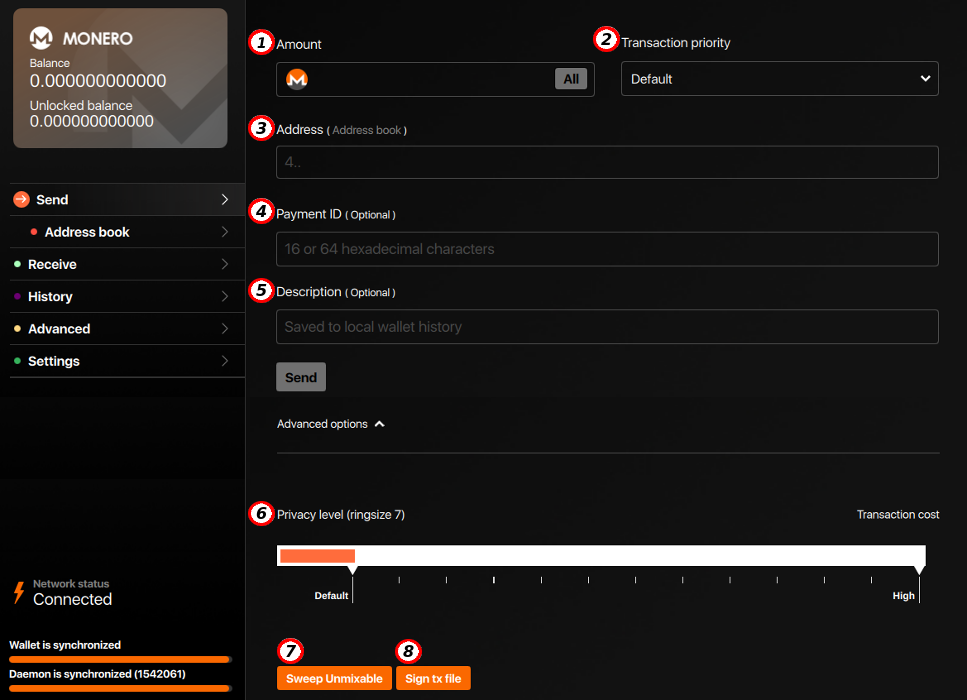
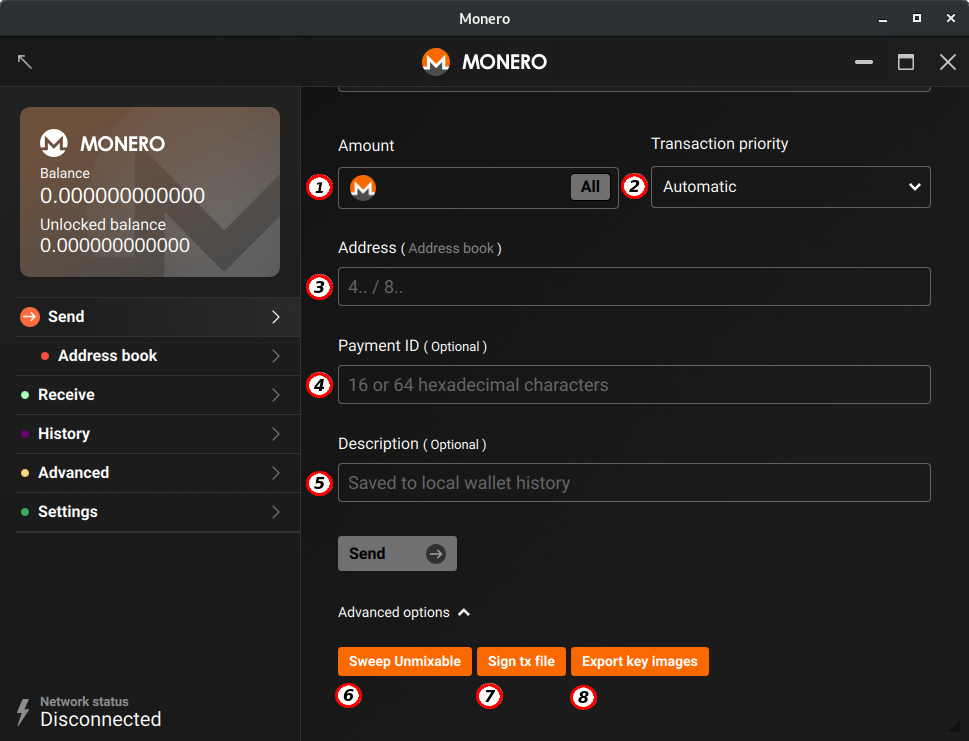
[ch03] remove 'privacy level', update screenshot, add 'export key image'

diff --git a/es/ch03.md b/es/ch03.md
@@ -10,12 +10,11 @@ La pestaña `Enviar` proporciona herramientas para crear transacciones de salida
 (3) **Dirección:** Aquí es donde se ingresa la dirección de Monero a la que se envían los moneroj. La mejor práctica es copiar y pegar la dirección para evitar errores, acompañada de una comprobación visual de que la dirección pegada es correcta.    
 (4) **ID de pago (opcional):** El ID de pago es un identificador adjunto a la transacción que estás a punto de enviar. A menudo, al enviar a un mercado de intercambio, te facilitarán una identificación de pago que tendrás que incluir aquí. Esta medida suele ser necesaria para que el receptor sepa que la transacción entrante es tuya.    
 *Si olvidas agregar tu ID de pago, aún podrás recuperar tus fondos comunicándote con la parte a la que enviaste Monero.*    
-(5) **Descripción (opcional):** Esta descripción es para un registro personal. Puedes agregar alguna información con respecto al motivo de la transacción para referencias futuras.    
-(6) **Nivel de privacidad (tamaño del anillo):** Este control deslizante aumenta el tamaño de las firmas del anillo en la transacción. Los tamaños de anillo más altos pueden aumentar la privacidad de la transacción, pero también aumentan las tarifas. Se recomienda dejar el tamaño del anillo por defecto.
-*Aprenda más sobre las firmas de anillos.*    
-(7) **Barrido no se puede mezclar:** Esta función permite deshacerse de las salidas en tu monedero que tienen cantidades extrañas como `0.000006839355`. Estos son inamovibles sin combinarlos con otra salida.
+(5) **Descripción (opcional):** Esta descripción es para un registro personal. Puedes agregar alguna información con respecto al motivo de la transacción para referencias futuras.   
+(6) **Barrido no se puede mezclar:** Esta función permite deshacerse de las salidas en tu monedero que tienen cantidades extrañas como `0.000006839355`. Estos son inamovibles sin combinarlos con otra salida.
 *La mayoría de los usuarios nunca necesitarán usar esta función.*    
-(8) **Firmar archivo tx:** Este botón te permite firmar un archivo de transacción que se hubiera creado en una monedero de solo lectura. 
+(7) **Firmar archivo tx:** Este botón te permite firmar un archivo de transacción que se hubiera creado en una monedero de solo lectura. 
+(8) **Export key images:** This option will allow you to export your key images. They are needed to get the true balance of a view-only wallet.
 
 ## Libreta de direcciones
 

diff --git a/en/ch03.md b/en/ch03.md
@@ -10,12 +10,11 @@ The `Send` tab provides tools for creating outgoing transactions.
 (3) **Address:** This is where you put the Monero address that you are sending to. Best practice is to copy and paste the address to prevent errors, accompanied with visually checking that the pasted address is correct.    
 (4) **Payment ID (optional):** The payment ID is an identifier attached to the transaction you are about to send. Often when sending to an exchange they will give you a payment ID that you must include here. This is so they know which incoming transaction is from you.    
 *If you forget to add your payment ID you should still be able to recover your funds by contacting the party you sent Monero to.*    
-(5) **Description (optional):** This is for your record keeping. You can add some information regarding your transaction for future reference.    
-(6) **Privacy level (ringsize):** This slider increases the size of the ring signatures in your transaction. Higher ring sizes may increase privacy of the transaction but it also increases the fees. It is recommended to leave the ring size at the default.    
-*Learn more about ring signatures.*    
-(7) **Sweep unmixable:** This allows you to get rid of outputs in your wallet which have strange amounts like `0.000006839355`. These are unmovable without combining them with another output.    
+(5) **Description (optional):** This is for your record keeping. You can add some information regarding your transaction for future reference.       
+(6) **Sweep unmixable:** This allows you to get rid of outputs in your wallet which have strange amounts like `0.000006839355`. These are unmovable without combining them with another output.    
 *Most users will never need to use this feature.*    
-(8) **Sign tx file:** This button allows you to sign a transaction file that was created on a view-only wallet.    
+(7) **Sign tx file:** This button allows you to sign a transaction file that was created on a view-only wallet.    
+(8) **Export key images:** This option will allow you to export your key images. They are needed to get the true balance of a view-only wallet.
 
 ## Address Book
 

diff --git a/it/ch03.md b/it/ch03.md
@@ -14,6 +14,7 @@ La scheda `Invia` fornisce strumenti per creare transazioni in uscita.
 (6) **Sweep dei non mixabili:** Questa opzione ti dà la possiblità di liberarti degli output nel tuo portafoglio che hanno strani ammontare come `0.000006839355`. Questi output sono inamovibili a meno di combinarli con altri output.
 *La maggior parte degli utenti non avrà mai bisogno di ricorrere a questa funzione.*   
 (7) **Firma file tx:** Questo pulsante ti consente di firmare un file di transazione creato su un portafoglio di tipo sola-visualizzazione.
+(8) **Esporta immagini chiave:** Questa opzione ti permette di esportare le immagini delle chiavi. Sono necessarie per vedere il bilancio di un portafoglio solo-visualizzazione.
 
 ## Rubrica
 
